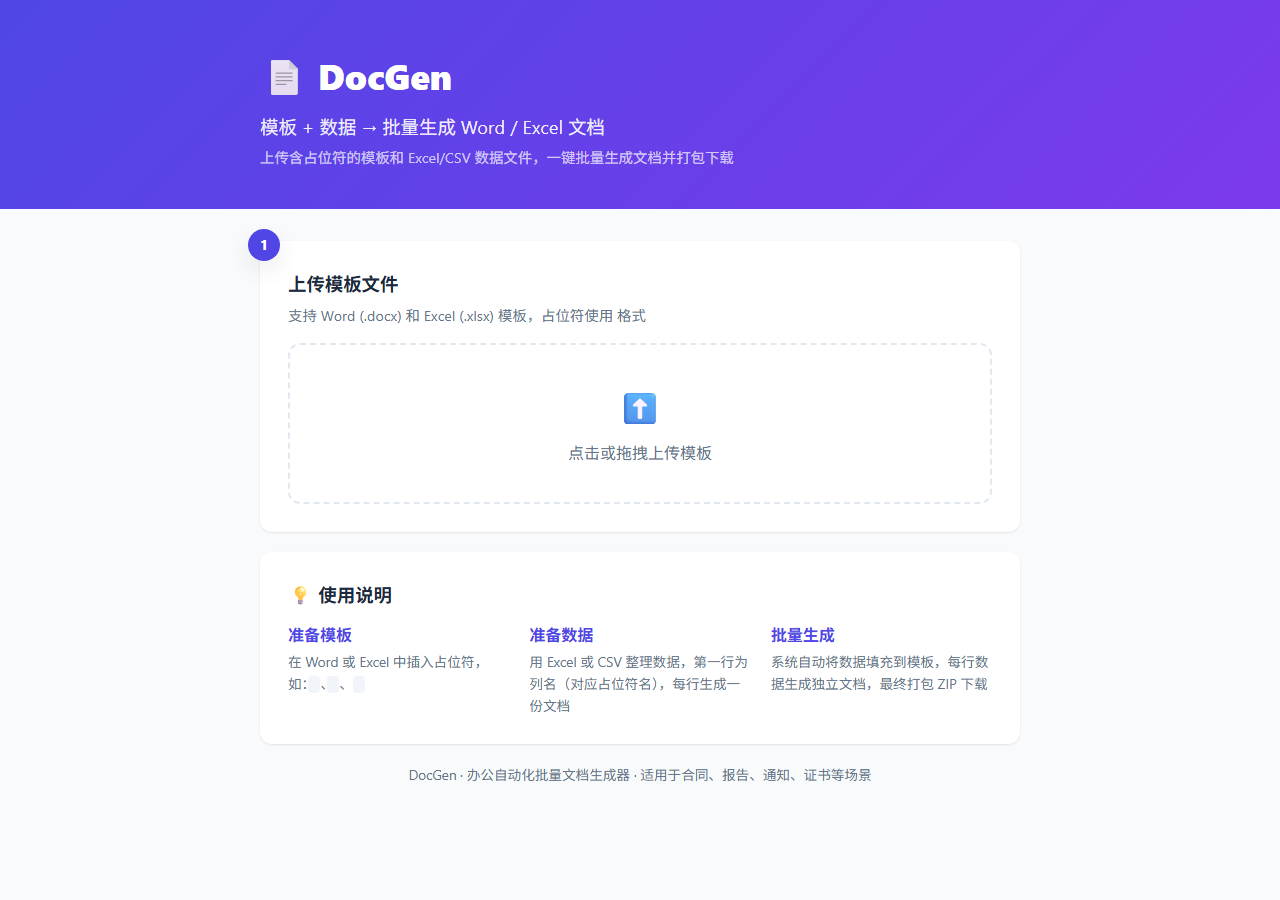
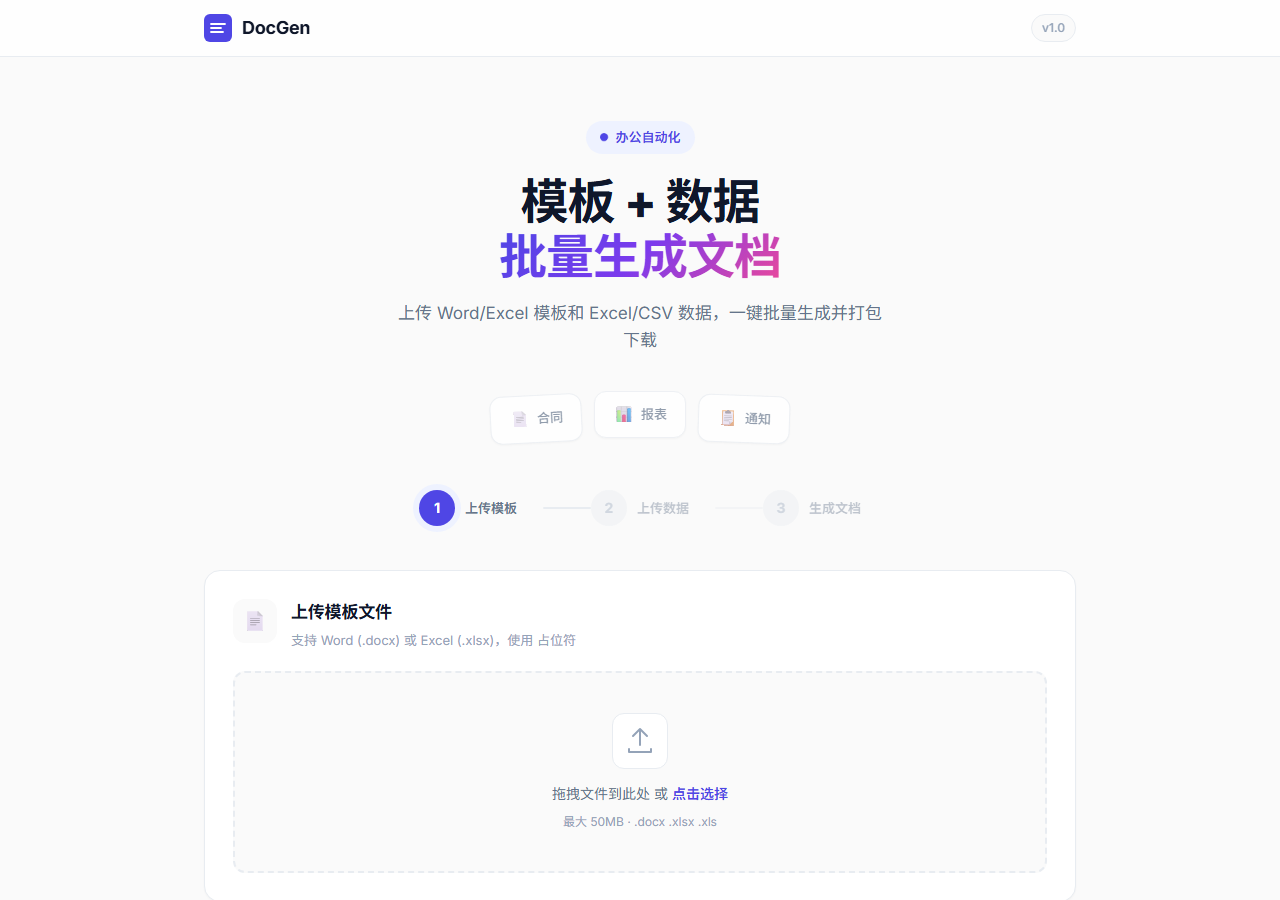
docs: 重写 README，更新新版 UI 截图
- 修复代码块格式和中文乱码
- 使用 HTML table 展示功能亮点
- 新增全页面截图预览
- 优化整体排版和可读性

diff --git a/README.md b/README.md
@@ -1,43 +1,51 @@
-# 📄 DocGen — 办公自动化批量文档生成器
+<div align="center">
+  <img src="screenshots/01_homepage.png" alt="DocGen" width="100%" />
+</div>
 
-> 模板 + 数据 → 一键批量生成 Word / Excel 文档
+<h1 align="center">📄 DocGen</h1>
+<p align="center">
+  <b>模板 + 数据 → 一键生成</b><br/>
+  批量生成 Word / Excel 文档的轻量级办公自动化工具
+</p>
 
-[![Python](https://img.shields.io/badge/Python-3.10+-blue.svg)](https://www.python.org/)
-[![Flask](https://img.shields.io/badge/Flask-3.x-green.svg)](https://flask.palletsprojects.com/)
-[![License](https://img.shields.io/badge/License-MIT-yellow.svg)](LICENSE)
-
-DocGen 是一款轻量级办公自动化 Web 工具，上传含占位符的 Word/Excel 模板和 Excel/CSV 数据文件，即可批量生成文档并打包下载。
+<p align="center">
+  <img src="https://img.shields.io/badge/Python-3.10+-3776AB?logo=python&logoColor=white&style=flat-square" />
+  <img src="https://img.shields.io/badge/Flask-3.x-000000?logo=flask&logoColor=white&style=flat-square" />
+  <img src="https://img.shields.io/badge/License-MIT-yellow?style=flat-square" />
+  <img src="https://img.shields.io/badge/Status-Active-success?style=flat-square" />
+</p>
 
 ---
 
-## ✨ 功能特性
+## ✨ 功能亮点
 
-- 🔄 **批量生成**：一行数据生成一份文档，支持 Word (docx) 和 Excel (xlsx)
-- 🔍 **占位符自动检测**：上传模板后自动识别 {{变量名}} 占位符
-- 👁️ **预览功能**：生成前先用首条数据预览效果
-- 📦 **一键打包**：全部文档自动打包 ZIP 下载
-- 🎨 **简洁界面**：三步向导式操作，拖拽上传
+<table>
+  <tr>
+    <td width="50%"><b>🔄 批量生成</b><br/>一行数据生成一份文档，支持 Word 和 Excel</td>
+    <td width="50%"><b>🔍 智能识别</b><br/>上传模板后自动检测 <code>{{变量名}}</code> 占位符</td>
+  </tr>
+  <tr>
+    <td><b>👁️ 实时预览</b><br/>生成前先用首条数据预览效果，确保无误</td>
+    <td><b>📦 一键打包</b><br/>所有文档自动 ZIP 打包，方便下载分发</td>
+  </tr>
+  <tr>
+    <td><b>🎨 现代界面</b><br/>三步向导式操作，支持拖拽上传</td>
+    <td><b>🔒 本地处理</b><br/>数据不上传第三方，安全可靠</td>
+  </tr>
+</table>
 
-## 📸 界面截图
+## 📸 界面预览
 
-![首页](./screenshots/01_homepage.png)
-|:--:|
-| 首页 |
-
-![上传后](./screenshots/02_uploaded.png)
-|:--:|
-| 上传模板与数据 |
+<div align="center">
+  <img src="screenshots/02_fullpage.png" alt="DocGen Full Page" width="100%" />
+  <p><em>DocGen 完整界面预览</em></p>
+</div>
 
 ## 🚀 快速开始
 
-### 环境要求
+> 环境要求：**Python 3.10+**
 
-- Python 3.10+
-- pip
-
-### 安装运行
-
-`ash
+```bash
 # 克隆项目
 git clone https://github.com/caiwennmin/docgen.git
 cd docgen
@@ -47,76 +55,72 @@ pip install -r requirements.txt
 
 # 启动服务
 python app.py
-`
+```
 
-浏览器打开 http://127.0.0.1:5050
+浏览器打开 **http://127.0.0.1:5050** 即可使用。
 
-## 📖 使用说明
+## 📖 使用教程
 
-### 1. 准备模板
+### 第一步：准备模板
 
-在 Word 或 Excel 文件中插入占位符，格式为 {{变量名}}：
+在 Word 或 Excel 中插入 `{{变量名}}` 格式的占位符：
 
-`
+```
 尊敬的 {{客户姓名}} 先生/女士：
 
-感谢您选择我们的服务！合同编号：{{合同编号}}
-本合同金额：¥{{金额}}，签订日期：{{签约日期}}
-`
+感谢您选择我们的服务。
+合同编号：{{合同编号}}
+合同金额：¥{{金额}}
+签订日期：{{签约日期}}
+```
 
-### 2. 准备数据
+### 第二步：准备数据
 
-用 Excel 或 CSV 整理数据，第一行为列名（对应模板中的占位符）：
+用 Excel 或 CSV 整理数据，第一行为列名（对应模板中的占位符），每行生成一份文档：
 
 | 客户姓名 | 合同编号 | 金额 | 签约日期 |
-|---------|---------|------|---------|
-| 张三 | HT-001 | 50000 | 2026-01-15 |
-| 李四 | HT-002 | 32000 | 2026-02-20 |
-| 王五 | HT-003 | 78000 | 2026-03-10 |
+| --- | --- | --- | --- |
+| 张三 | HT-001 | 50,000 | 2026-01-15 |
+| 李四 | HT-002 | 32,000 | 2026-02-20 |
+| 王五 | HT-003 | 78,000 | 2026-03-10 |
 
-### 3. 生成文档
+### 第三步：生成文档
 
-1. 上传模板 → 系统自动识别占位符
-2. 上传数据 → 预览数据内容
-3. 点击「批量生成」→ 下载 ZIP 压缩包
+1. 点击或拖拽上传模板文件 → 系统自动识别占位符
+2. 上传数据文件 → 预览数据内容
+3. 点击「批量生成全部」→ 下载 ZIP 压缩包
 
 ## 🛠️ 技术栈
 
 | 层级 | 技术 |
-|-----|------|
+| --- | --- |
 | 后端框架 | Flask |
-| 文档处理 | python-docx, openpyxl |
+| 文档处理 | python-docx · openpyxl |
 | 数据处理 | pandas |
-| 前端 | 原生 HTML/CSS/JS |
-| 样式 | CSS 自定义属性 |
+| 前端 | Vanilla JS · CSS Custom Properties |
+| 字体 | Inter · Noto Sans SC |
 
 ## 📁 项目结构
 
-`
+```
 docgen/
-├── app.py                 # Flask 应用主程序
-├── requirements.txt       # Python 依赖
+├── app.py                # Flask 应用主程序
+├── requirements.txt      # Python 依赖
 ├── templates/
-│   └── index.html         # 前端页面
+│   └── index.html        # 前端页面
 ├── static/
-│   ├── css/style.css      # 样式
-│   └── js/app.js          # 前端交互
-├── screenshots/           # 项目截图
-├── uploads/               # 上传目录（含示例文件）
-├── LICENSE
+│   ├── css/style.css     # UI 样式
+│   └── js/app.js         # 交互逻辑
+├── screenshots/          # 项目截图
+├── uploads/              # 示例模板和数据
+├── LICENSE               # MIT 开源协议
 └── README.md
-`
+```
 
 ## 📝 适用场景
 
-- 📋 批量生成劳动合同、保密协议
-- 📊 自动填充 Excel 报表模板
-- ✉️ 批量生成通知函、邀请函
-- 🧾 报价单、发票、收据生成
-- 🏅 证书、奖状批量制作
+`劳动合同` · `保密协议` · `报价单` · `通知函` · `邀请函` · `证书奖状` · `财务报表` · `考勤记录` · `发货单` · `工牌名片`
 
 ## 📄 License
 
-MIT License — 详见 [LICENSE](LICENSE) 文件
-
-
+MIT © [caiwennmin](https://github.com/caiwennmin)